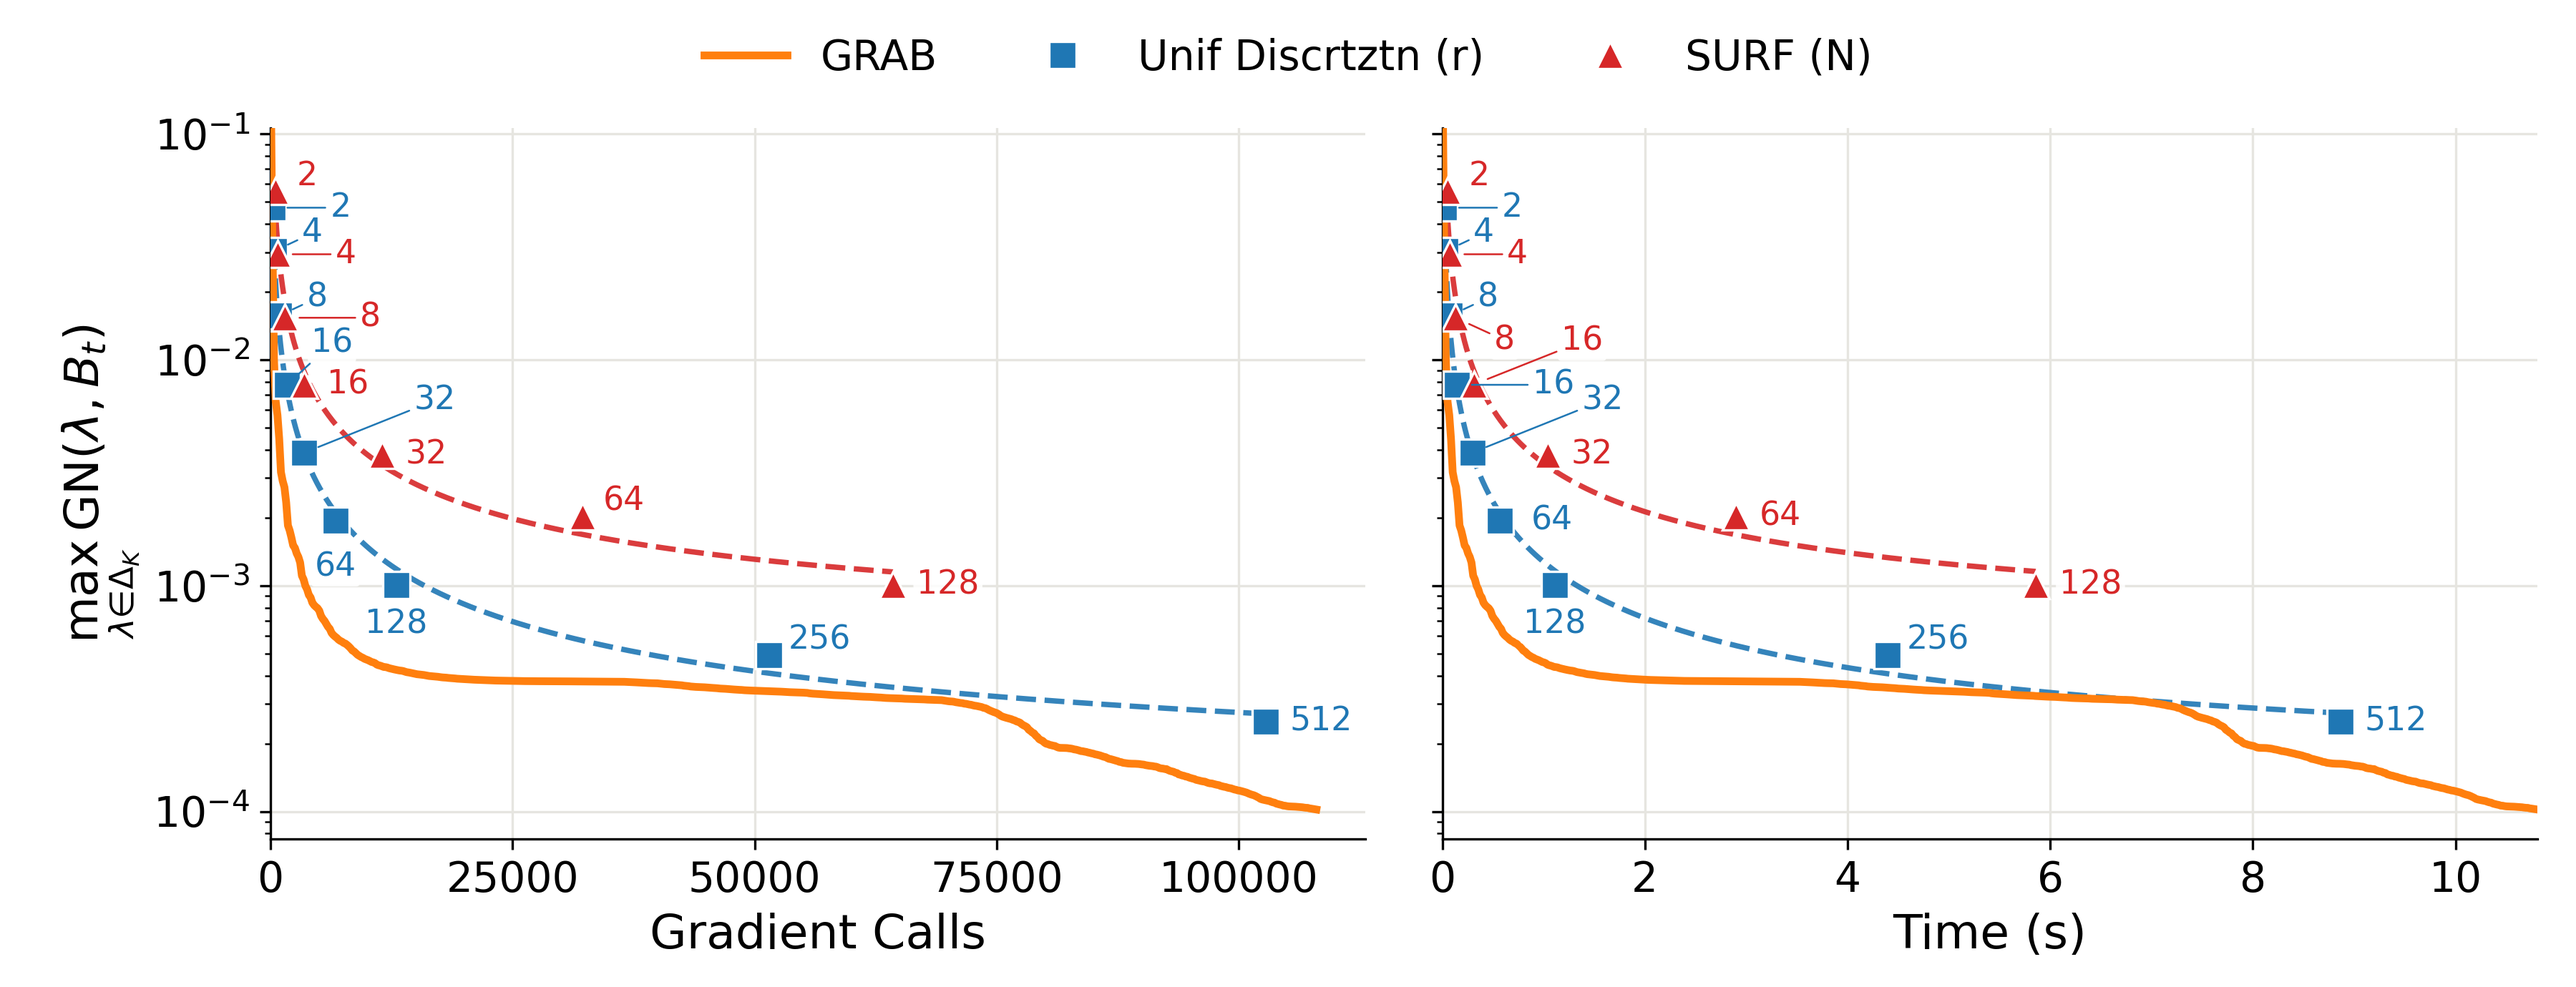
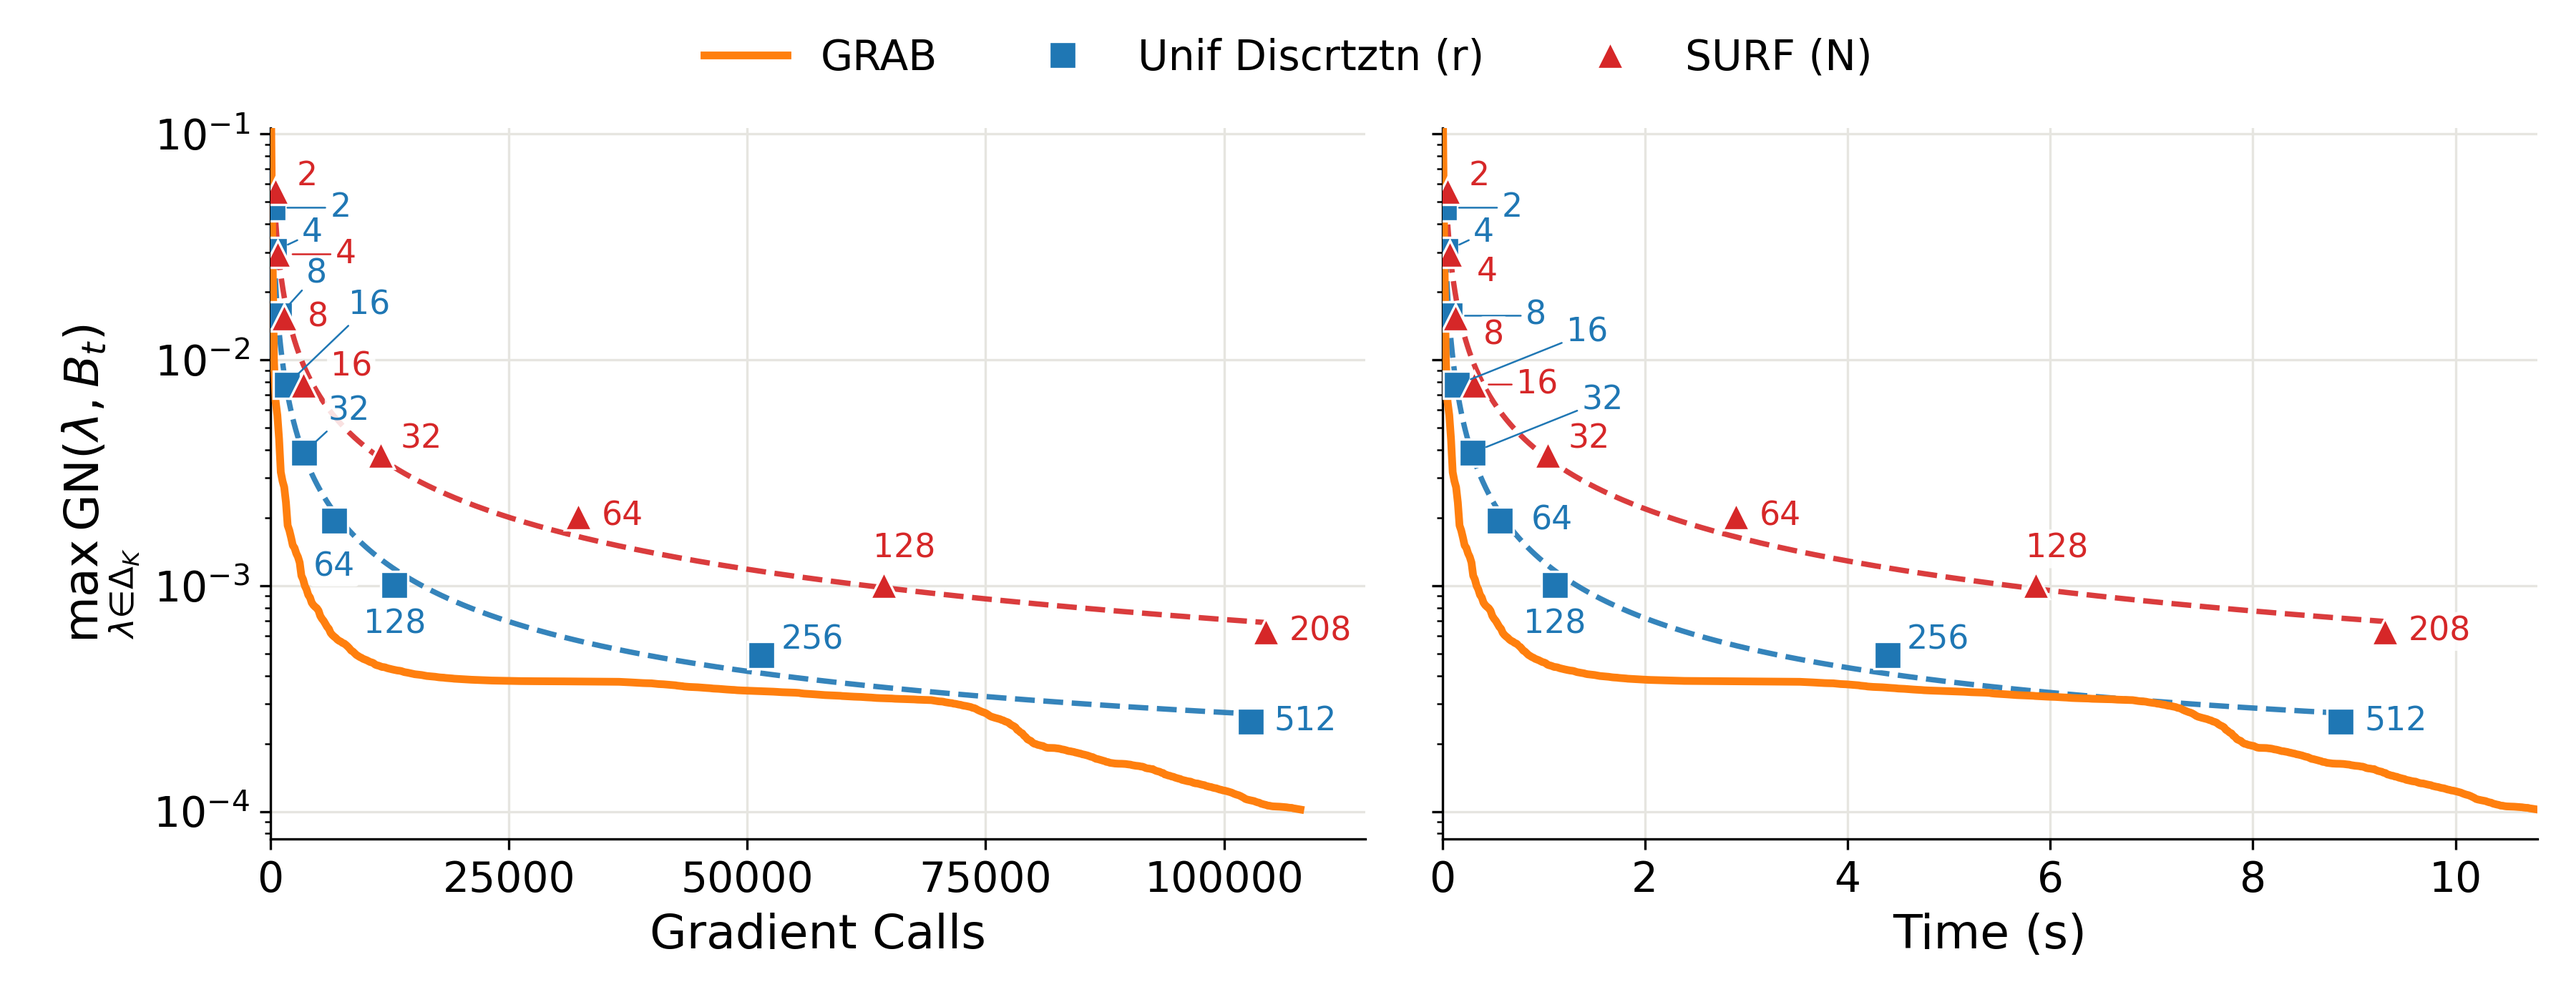
FishWood SURF: add N=208, the largest multiple of 16 whose point lies within the budget
One SURF point near the end of the FishWood budget (104,402 of 108,000 Gradient Calls; N=224 lies beyond).
config values, README (settings, values rule, expected results) and the FishWood figure and summary updated;
the doubling check of N=208 changes the GN by -0.02%.

diff --git a/mogym/config.py b/mogym/config.py
@@ -23,13 +23,14 @@ POINT_BAND = .05            # plotted point: earliest checkpoint after which the
 # (as measured before B was fixed), rounded up to a multiple of 1e3 (K=2), 3e3 (Breakable Bottles) or 6e3 (Fruit
 # Tree).  Checkpoints of every method follow one Gradient-Call schedule: every B/600 (K=2) or B/120 (K>2) calls up
 # to B, 10x that afterwards (GRAB: checkpoint_count = 600 / 120 over B).  A run is plotted if its point lies at <= B
-# calls.  The next values (FishWood r=1024 and N=256, DST r=1024 and N=128, Breakable Bottles r=64, Fruit Tree r=7)
-# have their point beyond B; DST N=2 is not plotted (its middle slot weight cycles without settling, so the rule
-# never stops it).
+# calls.  FishWood SURF also uses N=208, the largest multiple of 16 whose point lies within B, to place one SURF
+# point near the end of the budget.  The next values (FishWood r=1024 and N=224, DST r=1024 and N=128, Breakable
+# Bottles r=64, Fruit Tree r=7) have their point beyond B; DST N=2 is not plotted (its middle slot weight cycles
+# without settling, so the rule never stops it).
 TASKS = {
     "fishwood": dict(
         uniform=dict(M=50, lr=.03, values=[2, 4, 8, 16, 32, 64, 128, 256, 512]),
-        surf=dict(K_S=25, lr=.03, values=[2, 4, 8, 16, 32, 64, 128]),
+        surf=dict(K_S=25, lr=.03, values=[2, 4, 8, 16, 32, 64, 128, 208]),
         adaptive=dict(inner_steps=10, lr=.01, lambda_method="envelope", checkpoint_count=600),
         budget=108000, every=180),
     "dst": dict(

diff --git a/README.md b/README.md
@@ -110,14 +110,14 @@ and `--results <dir>`; runs whose output already exists are skipped.
 - Every Uniform r and SURF N is a separate run. It stops once its per-sweep (per-round) GN has changed by at most 1% three times in a row, the run is ready, and three further sweeps (rounds) confirm the plateau.
   - Ready means: the 95th percentile of the gradient norms at the policies' own weights is at most max(1e-5, 0.25·GN). For SURF the slot weights must also have settled.
 - The plotted point: among the Gradient-Call checkpoints before the stop and the stopping checkpoint, the earliest after which the GN stays within 5% of its value at stopping. Gradient Calls, CPU time and GN are read from that checkpoint.
-- A run is plotted if its point lies within B. The values of r and N are powers of two from 2 (FishWood, DST, Breakable Bottles) and r = 1, …, 6 (Fruit Tree); the next value of every family has its point beyond B (`mogym/config.py`).
+- A run is plotted if its point lies within B. The values of r and N are powers of two from 2 (FishWood, DST, Breakable Bottles) and r = 1, …, 6 (Fruit Tree); FishWood SURF also uses N = 208, the largest multiple of 16 whose point lies within B, so that one SURF point lies near the end of the budget. The next value of every family has its point beyond B (`mogym/config.py`).
 - `check_doubling.py` reruns every plotted run for twice its length; in the reported runs the GN changed by less than 1.7% after the stop (between −1.63% and +1.51%).
 
 **Settings** (`mogym/config.py`):
 
 | Task | Uniform | SURF | GRAB | Budget B |
 |---|---|---|---|---|
-| FishWood | M_U=50, lr 0.03, r = 2,4,…,512 | K_S=25, lr 0.03, N = 2,4,…,128 | M_A=10, lr 0.01, envelope | 108,000 |
+| FishWood | M_U=50, lr 0.03, r = 2,4,…,512 | K_S=25, lr 0.03, N = 2,4,…,128 and 208 | M_A=10, lr 0.01, envelope | 108,000 |
 | DST | M_U=5, lr 0.3, r = 2,4,…,512 | K_S=25, lr 0.1, N = 4,8,…,64 | M_A=10, lr 0.1, envelope | 93,000 |
 | Breakable Bottles | M_U=5, lr 0.03, r = 2,4,…,32 | – | M_A=25, lr 0.03, K=3 subdivision (gap 0.05, 1,000 splits) | 18,000 |
 | Fruit Tree (d=6) | M_U=5, lr 0.1, r = 1,…,6 | – | M_A=10, lr 0.03, periodic CCP | 60,000 |
@@ -142,7 +142,7 @@ parentheses, divided by the lowest GRAB value within the Gradient Calls and with
 | Task | GRAB (end of budget) | Uniform, lowest point | SURF, lowest point |
 |---|---|---|---|
 | DST | 6.6235e-6 | 4.8588e-5 (r=512), 7.34× (6.36× / 5.50×) | 1.3043e-4 (N=64), 19.69× (19.24× / 16.63×) |
-| FishWood | 1.0211e-4 | 2.5027e-4 (r=512), 2.45× (2.23× / 1.58×) | 1.0050e-3 (N=128), 9.84× (3.17× / 3.07×) |
+| FishWood | 1.0211e-4 | 2.5027e-4 (r=512), 2.45× (2.23× / 1.58×) | 6.2749e-4 (N=208), 6.15× (5.87× / 4.05×) |
 | Breakable Bottles | [5.0486, 5.0738]e-4 | [1.5639, 1.5713]e-3 (r=32), 3.10× (3.09× / 1.99×) | – |
 | Fruit Tree | 8.3210e-4 | 1.0594e-3 (r=6), 1.27× (1.22× / 1.00×) | – |
 
